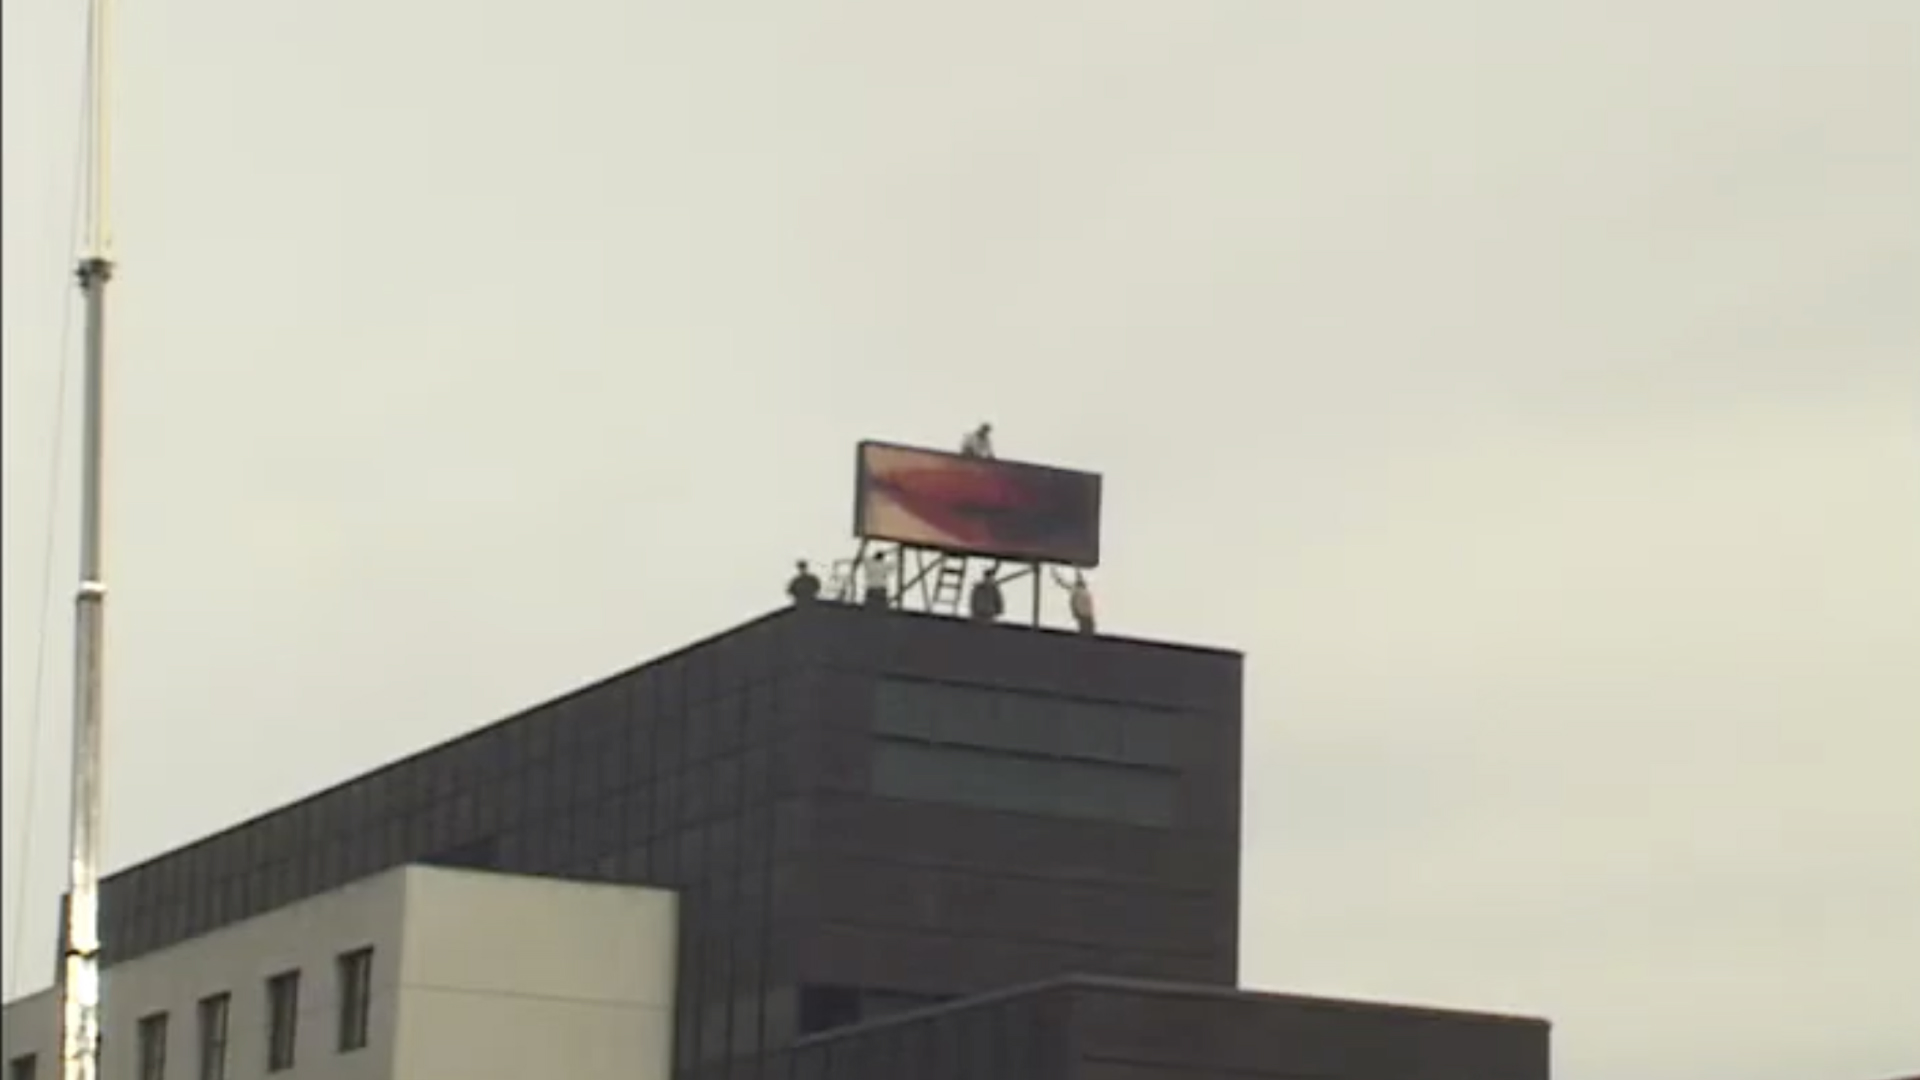
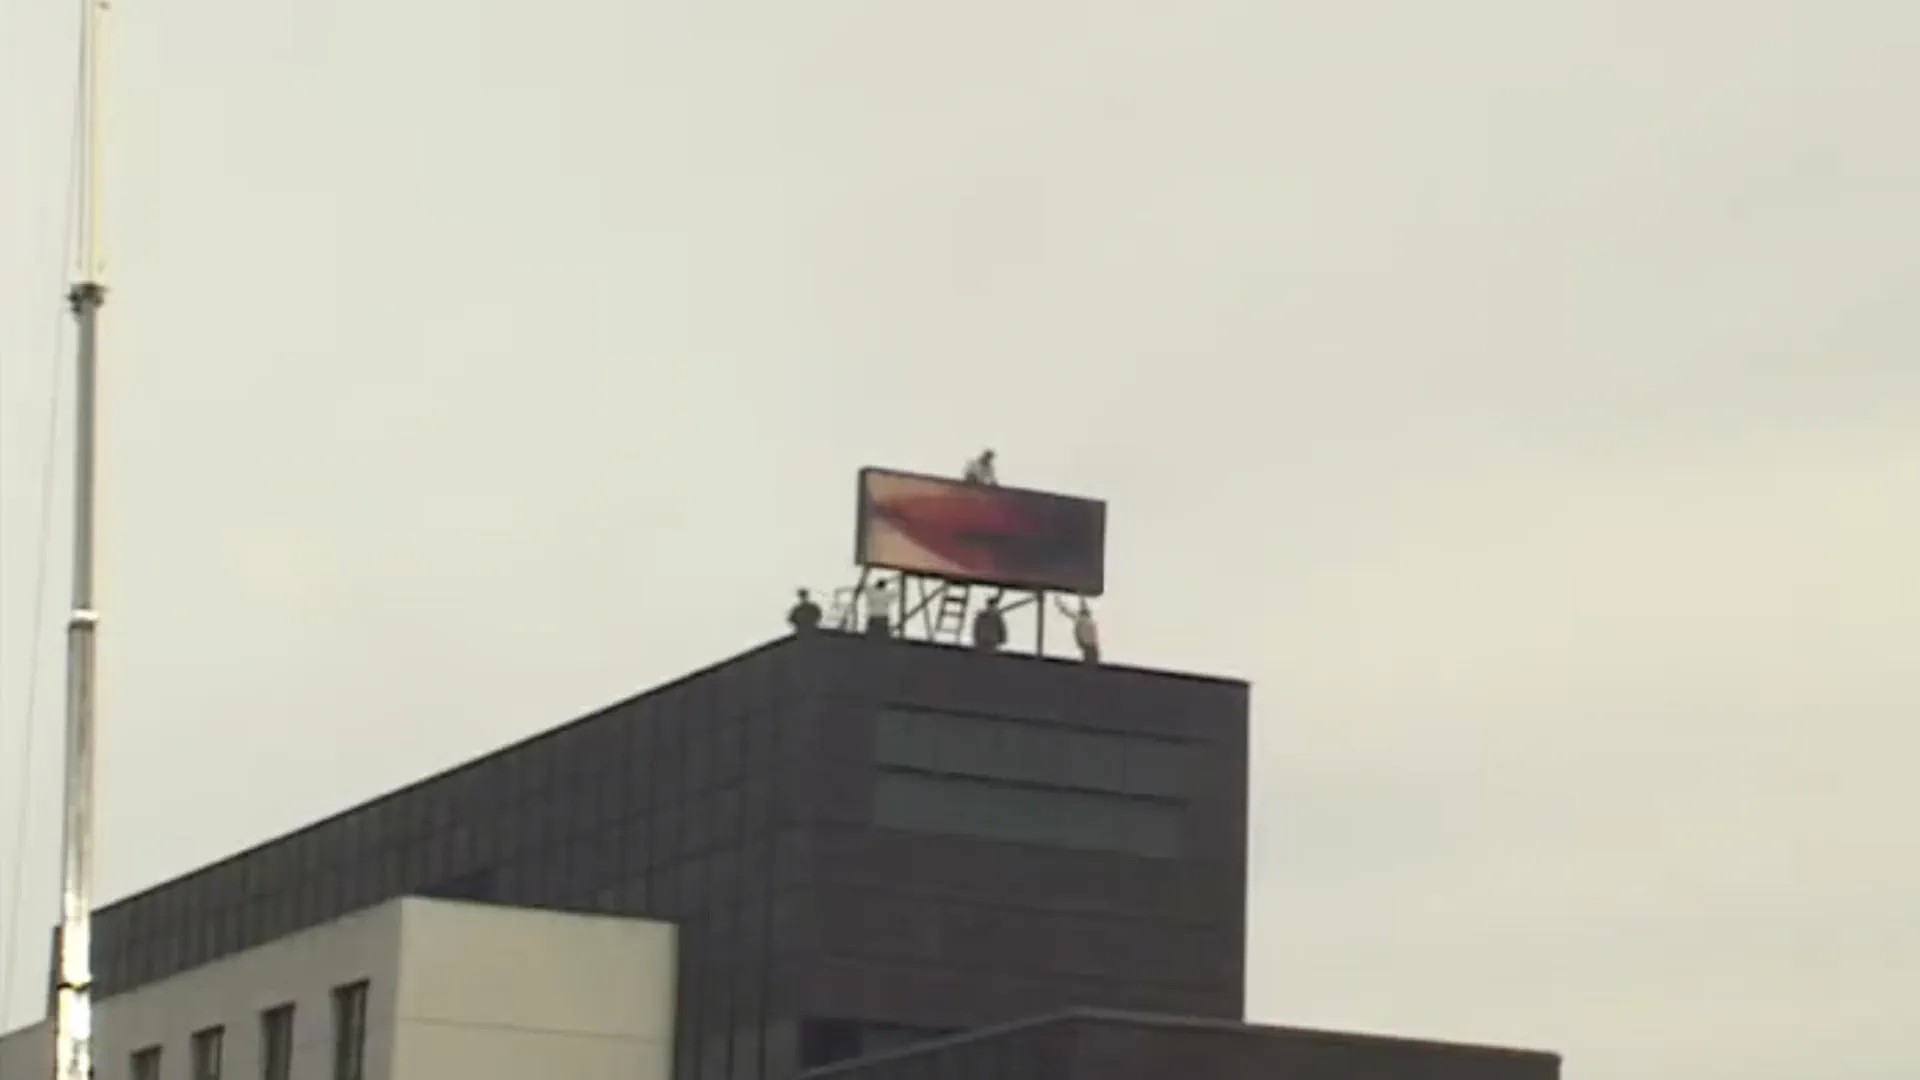
Add files via upload

Changed region(s): [[0.0, 0.2139, 0.8125, 1.0], [0.0312, 0.0, 0.0625, 0.0611]]

diff --git a/2026.html b/2026.html
@@ -14,13 +14,16 @@
 </div>
 
 <div class="info">
-    <img src="2026/info_header.png" alt="info">
+    <img src="2026/info_footer.png" alt="info">
 </div>
 
 <div class="content">
 
-    <div class="event-date" id="feb-18"><mark>FEBRUARY 18</mark></div>
-    <h3>20h00 - KILL THE ARCHIVE </h3>
+    <div class="event-date" id="feb-18"><mark>FEB 18, 2026</mark></div>
+    
+<section class="hour">
+    <div class="event-title">20h00 - KILL THE ARCHIVE</div>
+ 
     <div class="program">
        
         <div class="films-container">
@@ -56,13 +59,15 @@
                 <p class="film-info">A shot for shot remake of German filmmaker Harun Farocki’s film Inextinguishable Fire exploring division of labour in the development of Napalm B by Dow Chemical during the Vietnam War.</p>
                 <p class="tech-info">29min., 1998, 16mm, USA</p>
             </div>
-
         </div>
+   </section>
 
-    </div>
+    
 
-    <div class="event-date" id="feb-19"><mark>FEBRUARY 19</mark></div>
-    <h3>20h00 - MISSED MESSAGES</h3>
+    <div class="event-date" id="feb-19"><mark>FEB 19, 2026</mark></div>
+  <section class="hour">
+        <div class="event-title">20h00 - MISSED MESSAGES</div>
+    
     <div class="program-details">A program of films exploring the impossibility of language and the crisis of communication. Presented by the artist and filmmaker OK Pedersen<mark class="artist">*</mark></div>
 
     <div class="program">
@@ -84,7 +89,7 @@
                 <p class="tech-info">9min., 2021, Canada</p>
             </div>
             <div class="film">
-                <img src="2026/still_09.jpg" alt="09/05/1982">
+                <img src="2026/still_09.webp" alt="09/05/1982">
                 <p class="film-title">09/05/1982</p>
                 <p class="filmmaker">by Camilo Restrepo & Jorge Caballero</p>
                 <p class="film-info">A deteriorated film, shot in 1982 in a Latin American country, presents a succession of everyday images, among which a few stand out that testify to the violent events that took place on May 9 of that year. Interspersed between the images, a man's voice presents the official version of the events. Beneath its apparent banality, the film raises suspicion that what really happened was covered up.</p>
@@ -109,20 +114,28 @@
         </div>
     </div>
 
- <h3>23h00 - BARLINALE TALENTS</h3>
+        </section>
+
+  <section class="hour">
+ <div class="event-title">23h00 - BARLINALE TALENTS</div>
     <div class="program">
         
         <div class="event-container">
             <div class="film">
                 <img src="2026/event_talents.webp" alt="event">
-                    
+                           </section>  
             </div>
+            
         </div>
+
     </div>
+   
 
-    <div class="event-date" id="feb-20"><mark>FEBRUARY 20</mark></div>
+    <div class="event-date" id="feb-20"><mark>FEB 20, 2026</mark></div>
 
-    <h3>20h00 - INNER & OUTER SPACE<br></h3>
+
+     <section class="hour">
+    <div class="event-title">20h00 - INNER & OUTER SPACE<br></div>
 
     <div class="program">
     
@@ -169,17 +182,19 @@
             </div>
             
         </div>
+    </section>
     </div>
-
-    <h3>23h00 - AWARD CEREMONY</h3>
+    <section class="hour">
+    <div class="event-title">23h00 - AWARD CEREMONY</div>
     <div class="program">
         
         <div class="event-container">
             <div class="event">
-                <img src="2026/event_goldenbeer.jpg" alt="event">
+                <img src="2026/event_goldenbeer.webp" alt="event">
             </div>
         </div>
     </div>
+    </section>
 </div>
 
 <div class="info">
